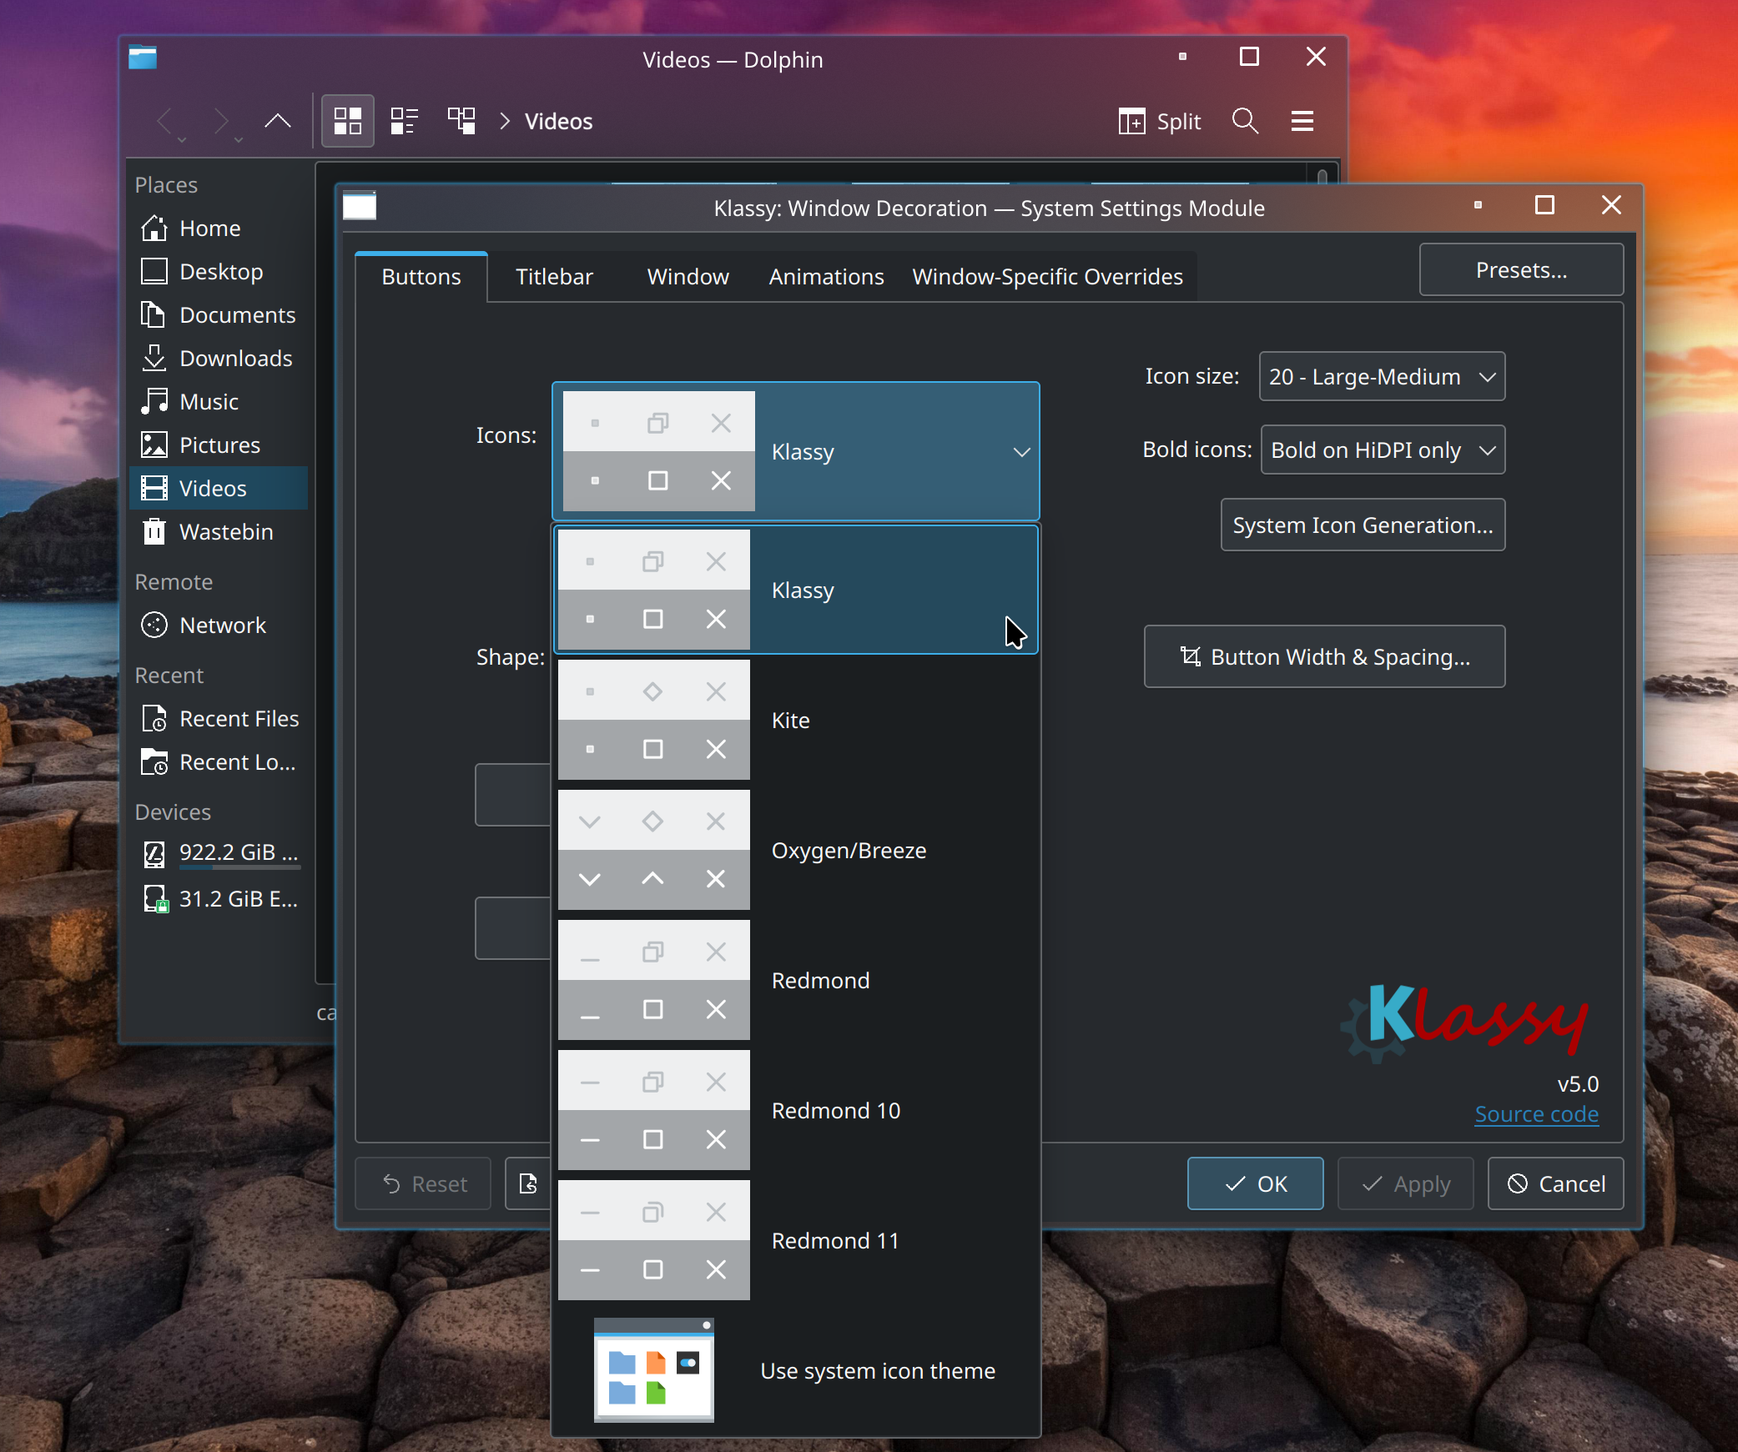
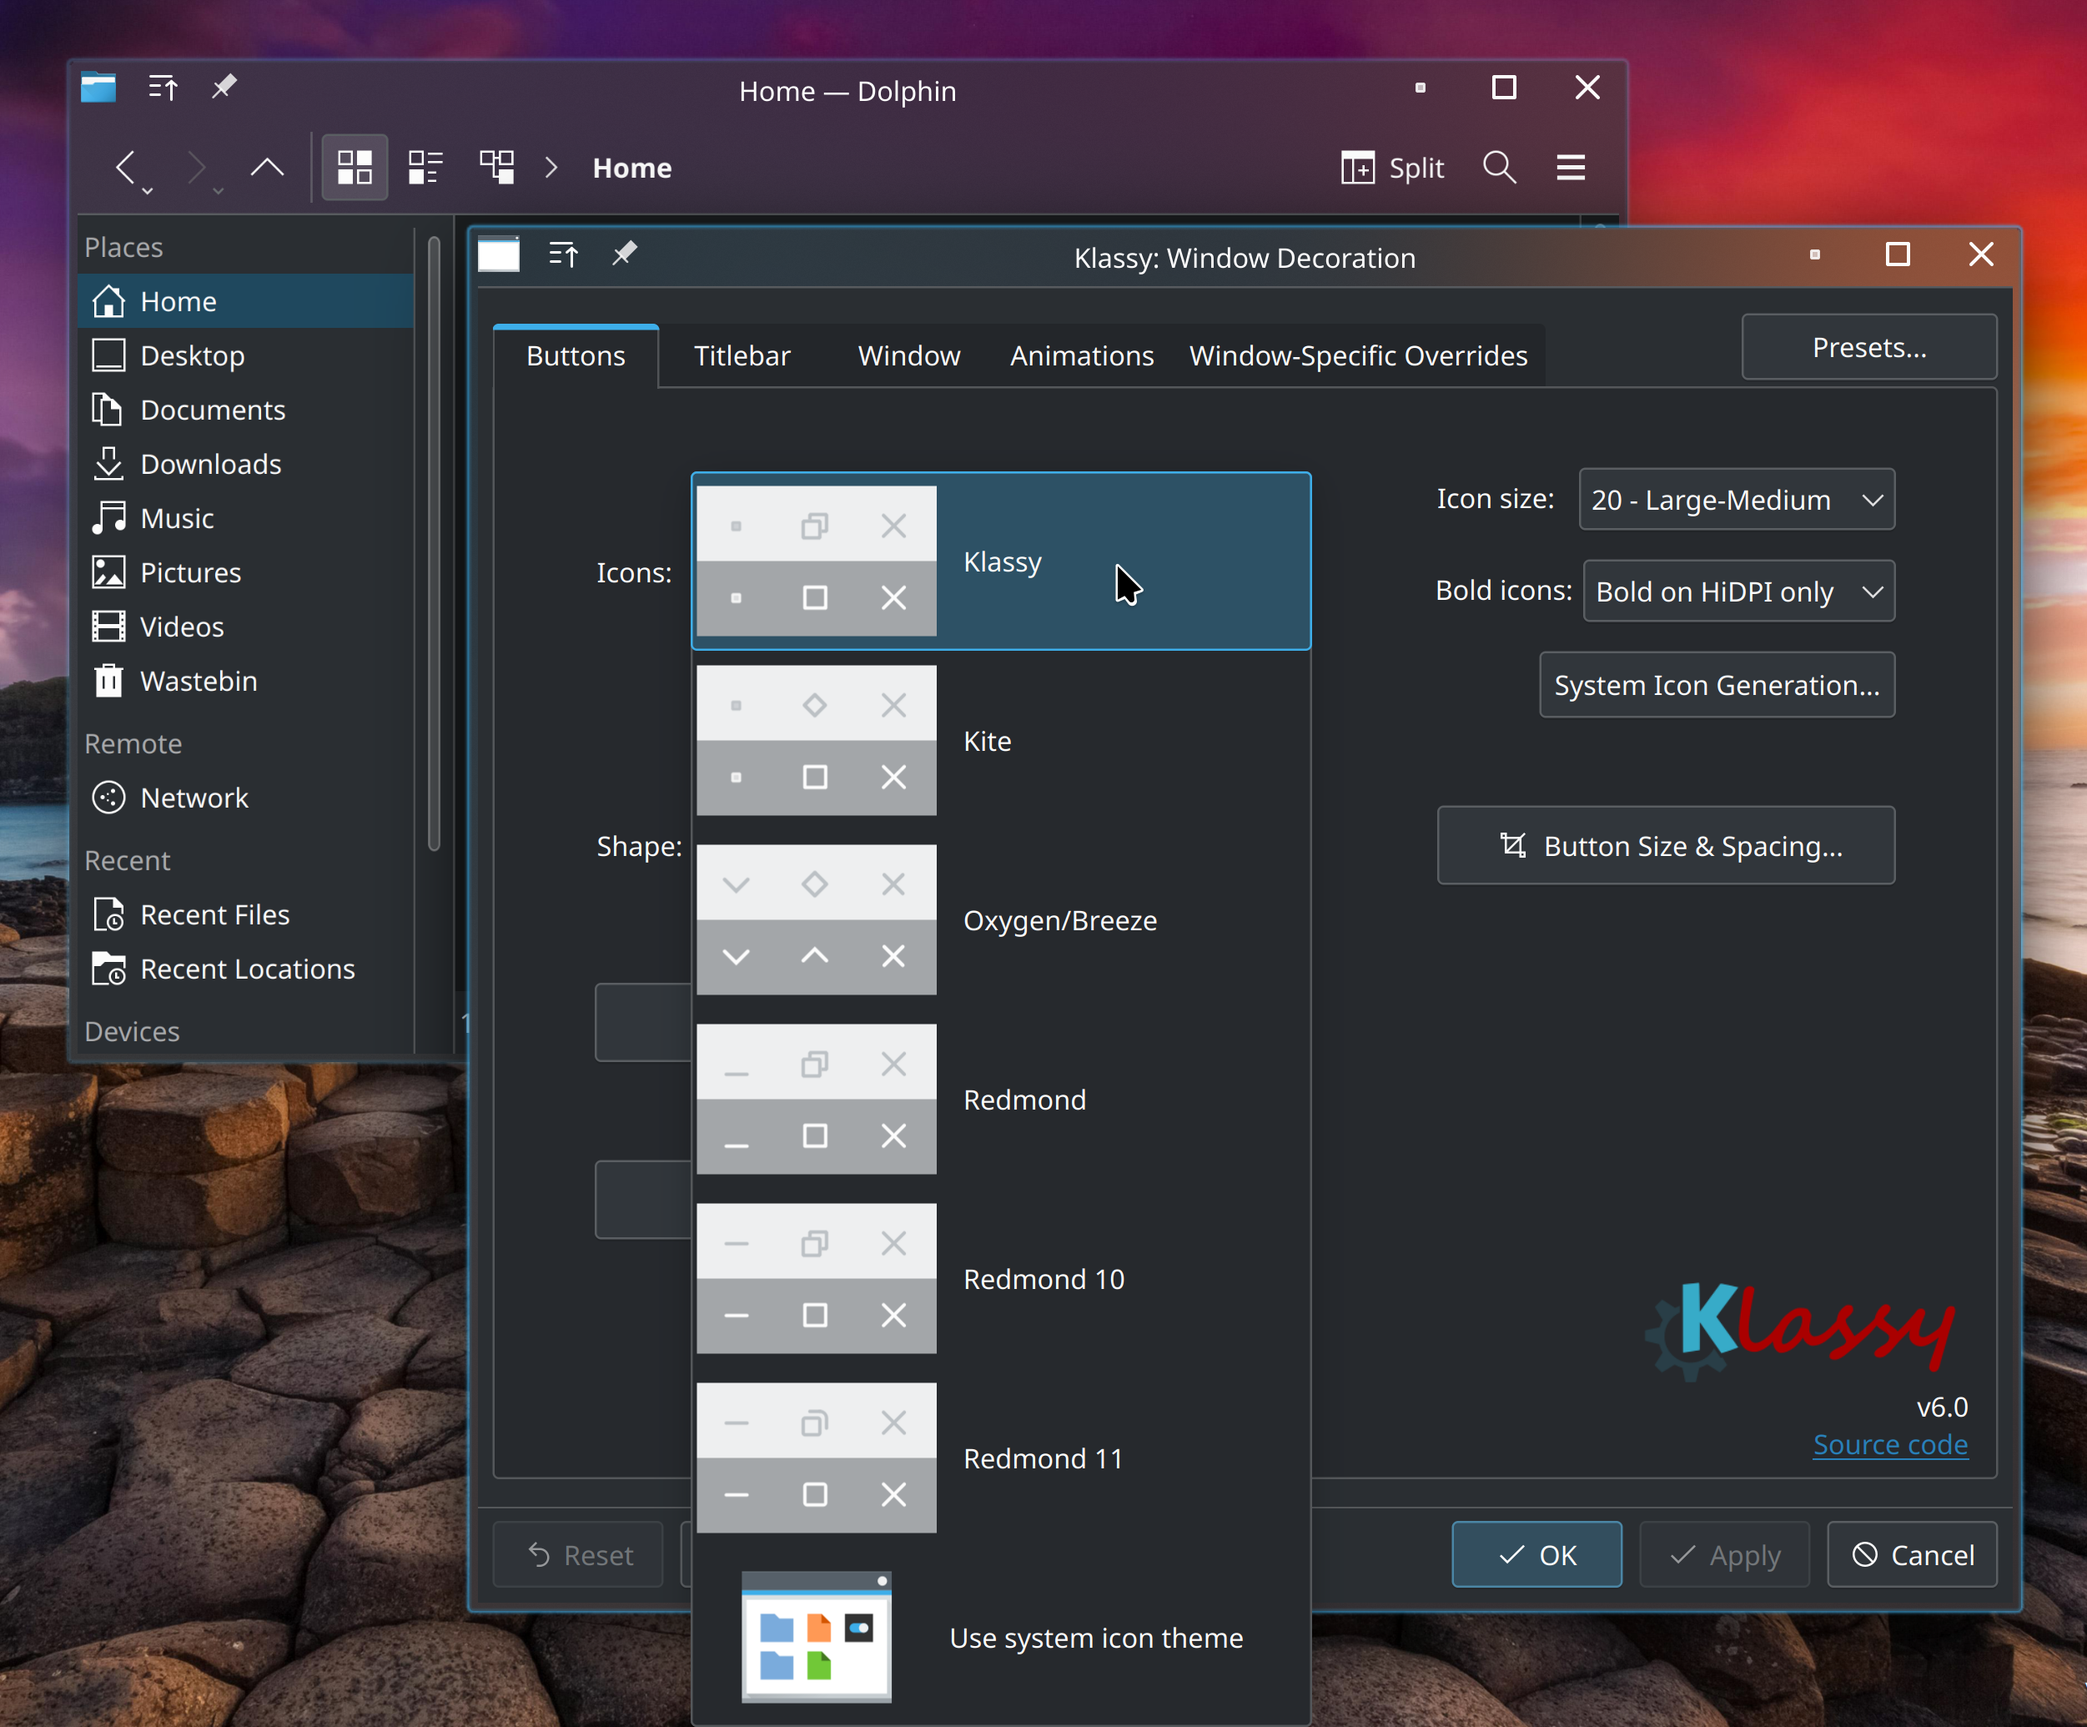
Update README and first image

diff --git a/README.md b/README.md
@@ -60,7 +60,7 @@ _Klassy_ (formerly _ClassiK_/_ClassikStyles_) is a highly customizable binary Wi
 <a name="installation"/>
 
 ## Installation
-_Klassy_ version 5.0 requires at least __Plasma 5.27__, so please check you have this in kinfocenter before trying to install. You can either download the pre-built packages or compile from source.
+_Klassy_ version 6.0 requires at least __Plasma 6.0__, so please check you have this in kinfocenter before trying to install. You can either download the pre-built packages or compile from source.
 <a name="prebuilt"/>
 
 ### Pre-built packages
@@ -78,28 +78,32 @@ Raw .rpm, .deb etc. binary packages are also available from the Open Build Servi
 ### Step 1: First, Install Dependencies
 #### OpenSUSE Tumbleweed/Leap build dependencies
 ```
-sudo zypper in cmake extra-cmake-modules libQt5Core-devel libQt5Gui-devel libQt5DBus-devel libqt5-qtx11extras-devel libkdecoration2-devel kcoreaddons-devel kguiaddons-devel kconfigwidgets-devel kwindowsystem-devel ki18n-devel kiconthemes-devel kpackage-devel libQt5QuickControls2-devel frameworkintegration-devel kcmutils-devel kirigami2-devel libqt5-qtsvg-devel libQt5Xml-devel
+sudo zypper in git cmake kf6-extra-cmake-modules gettext &&
+sudo zypper in "cmake(KF5Config)" "cmake(KF5CoreAddons)" "cmake(KF5FrameworkIntegration)"  "cmake(KF5GuiAddons)" "cmake(KF5Kirigami2)" "cmake(KF5WindowSystem)" "cmake(KF5I18n)" "cmake(KF5KCMUtils)" "cmake(Qt5DBus)" "cmake(Qt5Quick)" "cmake(Qt5Widgets)" "cmake(Qt5X11Extras)" "cmake(KDecoration2)" "cmake(KF6ColorScheme)" "cmake(KF6Config)" "cmake(KF6CoreAddons)" "cmake(KF6FrameworkIntegration)" "cmake(KF6GuiAddons)" "cmake(KF6I18n)" "cmake(KF6KCMUtils)" "cmake(KF6KirigamiPlatform)" "cmake(KF6WindowSystem)" "cmake(Qt6Core)" "cmake(Qt6DBus)" "cmake(Qt6Quick)" "cmake(Qt6Svg)" "cmake(Qt6Widgets)" "cmake(Qt6Xml)"
 ```
 
 #### Debian/Ubuntu/KDE Neon build dependencies
 ```
-sudo apt install build-essential libkf5config-dev libkdecorations2-dev libqt5x11extras5-dev qtdeclarative5-dev extra-cmake-modules libkf5guiaddons-dev libkf5configwidgets-dev libkf5windowsystem-dev libkf5coreaddons-dev gettext cmake libkf5iconthemes-dev libkf5package-dev libkf5style-dev libkf5kcmutils-dev kirigami2-dev libqt5svg5-dev
+sudo apt install git build-essential cmake kf6-extra-cmake-modules kf6-extra-cmake-modules kf6-frameworkintegration-dev kf6-kcmutils-dev kf6-kcolorscheme-dev kf6-kconfig-dev kf6-kconfigwidgets-dev kf6-kcoreaddons-dev kf6-kguiaddons-dev kf6-ki18n-dev kf6-kiconthemes-dev kf6-kirigami2-dev kf6-kpackage-dev kf6-kservice-dev kf6-kwindowsystem-dev kirigami2-dev kwayland-dev libx11-dev libkdecorations2-dev libkf5config-dev libkf5configwidgets-dev libkf5coreaddons-dev libkf5guiaddons-dev libkf5i18n-dev libkf5iconthemes-dev libkf5kcmutils-dev libkf5package-dev libkf5service-dev libkf5style-dev libkf5wayland-dev libkf5windowsystem-dev libplasma-dev libqt5x11extras5-dev qt6-base-dev qt6-declarative-dev qtbase5-dev qtdeclarative5-dev gettext qt6-svg-dev
 ```
 
 #### Arch/Manjaro build dependencies
 ```
-sudo pacman -S kdecoration qt5-declarative qt5-x11extras cmake make gcc extra-cmake-modules
+sudo pacman -S git frameworkintegration gcc-libs glibc kcmutils kcolorscheme kconfig kcoreaddons kdecoration kguiaddons ki18n kiconthemes kirigami kwidgetsaddons kwindowsystem qt6-base qt6-declarative qt6-svg xdg-utils extra-cmake-modules kcmutils5 frameworkintegration5 kconfigwidgets5 kiconthemes5 kirigami2 kwindowsystem5
 ```
 
 #### Fedora build dependencies
 ```
-sudo dnf install cmake extra-cmake-modules
-sudo dnf install "cmake(Qt5Core)" "cmake(Qt5Gui)" "cmake(Qt5DBus)" "cmake(Qt5X11Extras)" "cmake(KF5GuiAddons)" "cmake(KF5WindowSystem)" "cmake(KF5I18n)" "cmake(KDecoration2)" "cmake(KF5CoreAddons)" "cmake(KF5ConfigWidgets)" "cmake(KF5IconThemes)" "cmake(KF5Package)" "cmake(Qt5Quick)" "cmake(KF5FrameworkIntegration)" "cmake(KF5KCMUtils)" "cmake(KF5Kirigami2)" "cmake(Qt5Svg)"
+sudo dnf install git cmake extra-cmake-modules gettext
+sudo dnf install "cmake(KF5Config)" "cmake(KF5CoreAddons)" "cmake(KF5FrameworkIntegration)"  "cmake(KF5GuiAddons)" "cmake(KF5Kirigami2)" "cmake(KF5WindowSystem)" "cmake(KF5I18n)" "cmake(Qt5DBus)" "cmake(Qt5Quick)" "cmake(Qt5Widgets)" "cmake(Qt5X11Extras)" "cmake(KDecoration2)" "cmake(KF6ColorScheme)" "cmake(KF6Config)" "cmake(KF6CoreAddons)" "cmake(KF6FrameworkIntegration)" "cmake(KF6GuiAddons)" "cmake(KF6I18n)" "cmake(KF6KCMUtils)" "cmake(KF6KirigamiPlatform)" "cmake(KF6WindowSystem)" "cmake(Qt6Core)" "cmake(Qt6DBus)" "cmake(Qt6Quick)" "cmake(Qt6Svg)" "cmake(Qt6Widgets)" "cmake(Qt6Xml)"
 ```
 
-### Step 2: Then, build and install
-Build and install from source script:
+### Step 2: Then download, build and install
+Download, build and install from source script:
 ```
+git clone https://github.com/paulmcauley/klassy
+cd klassy
+git checkout 6.0.breeze6.0.2
 ./install.sh
 ```
 
@@ -112,7 +116,7 @@ Uninstall build script:
 <a name="icons"/>
 
 ## System icon theme
-To make your Plasma Desktop fully consistent, Klassy auto-generates "Klassy" and "Klassy Dark" system icon themes whenever a window-decoration setting changes. These add consistent titlebar button icons to certain minor context menus in Plasma, and also add consistent GTK application titlebar icons (for Firefox to have consistent titlebar icons on Wayland, it is recommended to set the system GNOME/GTK Application style to Adwaita as Breeze is buggy).
+To make your Plasma Desktop fully consistent, Klassy auto-generates "Klassy" and "Klassy Dark" system icon themes whenever a window-decoration setting changes. These add consistent titlebar button icons to certain minor context menus in Plasma, and also add consistent GTK application titlebar icons.
 > <img src="screenshots/klassy_square_icons.png" alt="Screenshot of Klassy with icon theme" width="512">
 
 These icons inherit the _Breeze_ icon theme by default, only overriding the titlebar button icons. Another icon theme may be inherited by changing the setting in the Window Decoration settings under the _System Icon Generation..._ button.
